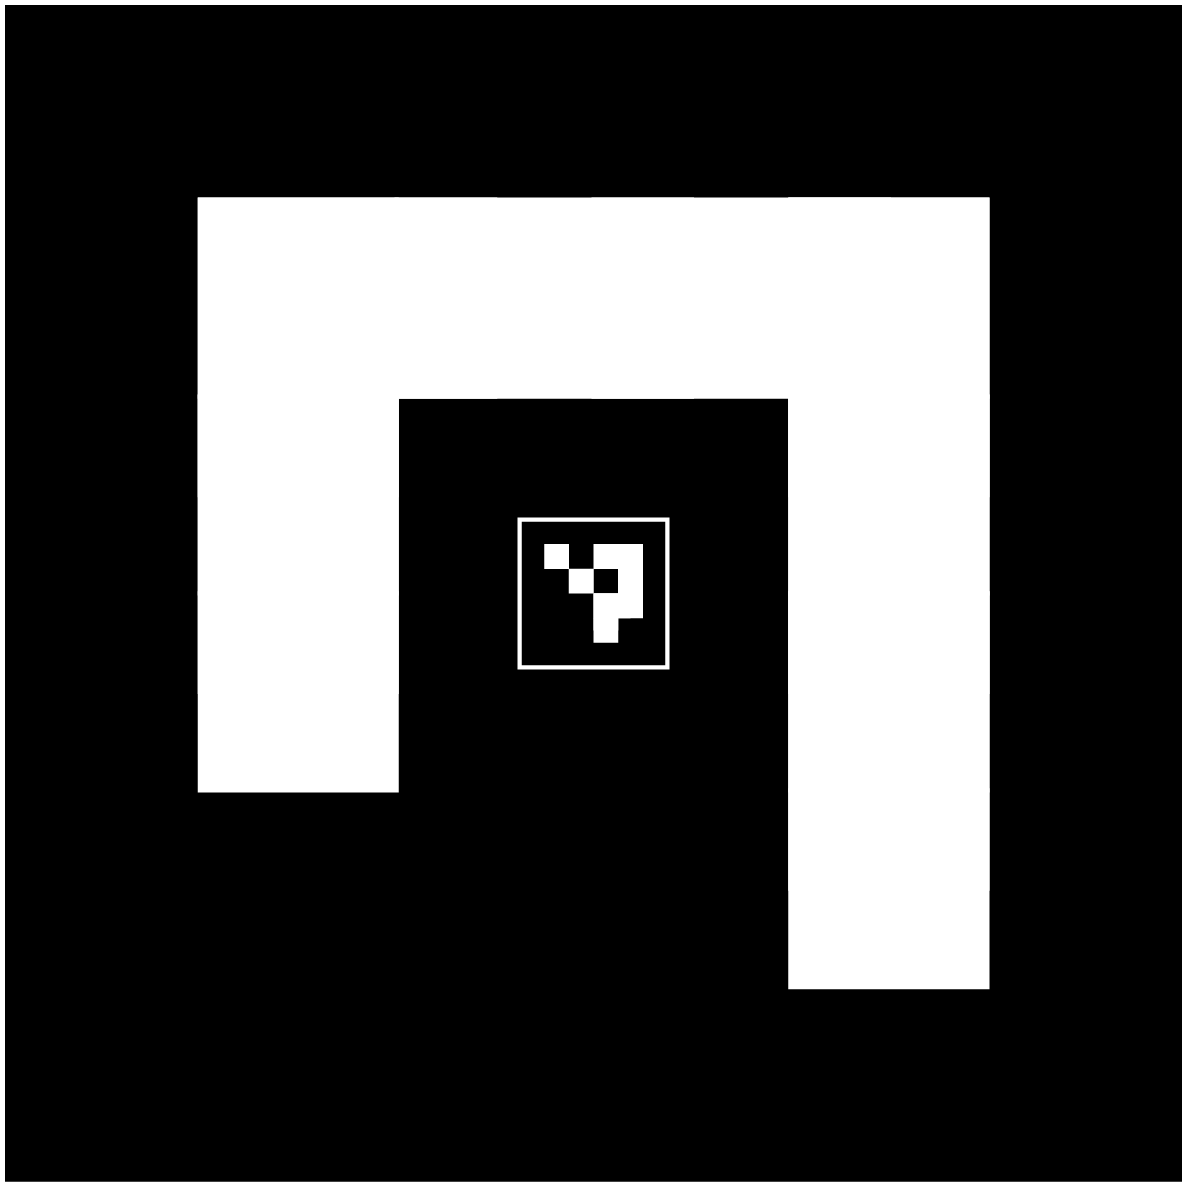
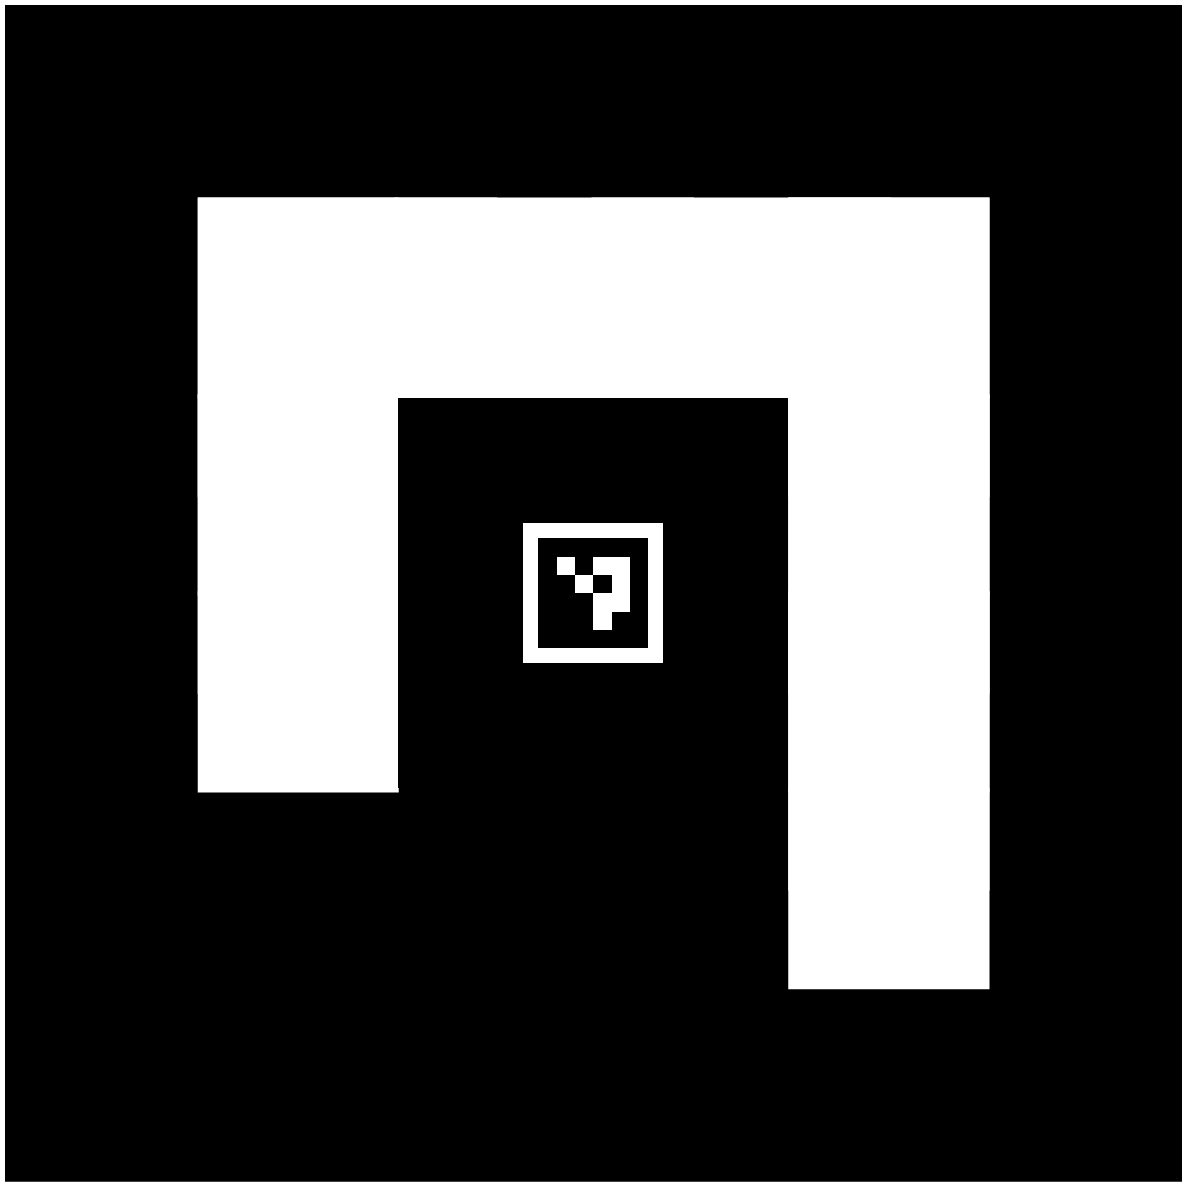
perception: nested marker (2m, ratio 10.63) + BIG-marker priority (observability)
Switch to nested 0-small_10-big.png (aruco world model.sdf, outside repo):
- 2.0m plane -> big ID10 detectable from 10m (54px) / 7m; small ID0 carries close.
- REGENERATED with a smaller inner (108px, ratio ID10/ID0 = 10.63) so the small
  marker stays detectable down to 0.08m -> visible at the 0.20m landed camera
  height with margin (old single 1m marker overflowed at 0.42m, lost before land).
- Nested layout {0:[0,0,1], 10:[0,0,10.63]} (was the 13-marker board layout).
- IMG_MARKER_PRIORITY=big (default, NEW): primary = the BIGGEST detected marker,
  kept while detectable, falling to the small only when the big is gone. The big
  marker's larger corner spread -> better flow observability. The old smallest-ID
  priority preferred the tiny inner marker -> rank-deficient flow. =small reverts.

⚠ concentric nested = mutually-exclusive decode (one ID/frame, no corner spread) —
solves decode continuity + touchdown visibility, NOT flow rank-deficiency (the board
would). ⚠ NEEDS OUTPUT (optical-flow) RE-CAL before perception-ON.

Changed region(s): [[0.4364, 0.4364, 0.5922, 0.5922]]

diff --git a/PX4_Gazebo/src/img_data.py b/PX4_Gazebo/src/img_data.py
@@ -2,7 +2,7 @@
 # Changed class and node name used in gz_subscriber
 # Used simulator time instead of system time
 # Used virtual image feature points for optical flow calculation
-# Detect nested Aruco markers of different IDs and select marker with smallest ID.
+# Detect nested Aruco markers; PRIMARY = the BIGGEST detected marker (IMG_MARKER_PRIORITY=big, 2026-07-03) for observability; falls to the small marker only when the big is gone.
 # Used Lucas-Kanade method for optical flow calculation.
 # **************************************************************************
 
@@ -447,7 +447,14 @@ class IMG_PROCESSOR(Thread):
         # 1.2→88) — the ~0.82 under-read is BENIGN (controller gains are tuned around the
         # filter attenuation; lag-compensating over-drives). Keep 1.0; offline RMSE 1.15 is a red herring.
         self._loom_gain = float(os.environ.get("FLOW_LOOM_GAIN", "1.0"))
-        self._primary_id = None   # smallest-ID decoded marker; for size-normalizing the loom scale M
+        self._primary_id = None   # primary decoded marker; for size-normalizing the loom scale M
+        # Marker priority (2026-07-03, user): which marker is the PRIMARY when >1 nested marker
+        # decodes. 'big' = the LARGEST (max layout size) — keep using the big marker (ID10) as long
+        # as it's detectable, fall to the small (ID0) only when the big is gone. The big marker has
+        # larger corner spread -> better flow OBSERVABILITY. 'small' = legacy smallest-ID (argmin),
+        # which preferred the tiny inner marker -> rank-deficient flow / the observability issues.
+        # Concentric markers share the board centre, so switching the primary never moves the centroid.
+        self._marker_priority = os.environ.get("IMG_MARKER_PRIORITY", "big").strip().lower()
         # FLOW_LOOM_WIN = causal linear-fit window (frames). Offline on a centered descent the
         # CAUSAL deque-fit vs GT loom: WIN=5 corr 0.69, WIN=9 corr 0.93, WIN=13 corr 0.97 (rmse
         # ~0.06; joint-lstsq was 0.16/0.88). 9 balances accuracy vs lag (~0.15s @ 60fps).
@@ -1015,8 +1022,16 @@ class IMG_PROCESSOR(Thread):
                     self._locked_marker_id = int(ids[primary_i])
                 else:
                     primary_i = int(np.where(ids == self._locked_marker_id)[0][0])
+            elif self._marker_priority == 'small':
+                primary_i = int(np.argmin(ids))      # legacy: smallest ID (innermost/smallest marker)
             else:
-                primary_i = int(np.argmin(ids))
+                # BIGGER-marker priority (default): pick the largest marker by layout size, so the
+                # big ID10 is used while detectable, then ID0 takes over when the big is gone.
+                if self._board_layout is not None:
+                    _sz = [float(self._board_layout.get(int(m), (0.0, 0.0, 0.0))[2]) for m in ids]
+                    primary_i = int(np.argmax(_sz))
+                else:
+                    primary_i = int(np.argmax(ids))  # nested convention: larger ID = bigger marker
             self._primary_id = int(ids[primary_i])   # for the decoupled-loom marker-size normalization
             # Primary first, then the rest — so marker k occupies corners
             # [4k:4k+4] of all_pts_0 and marker_ids[k] is its ID. Primary stays
